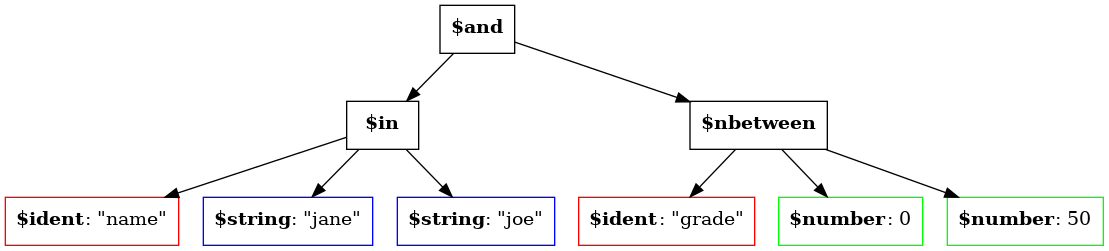
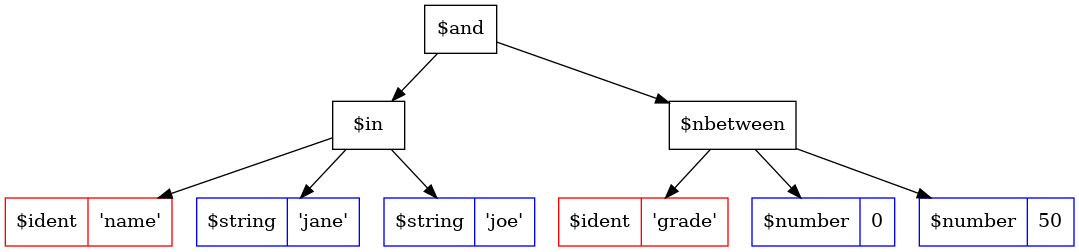
update dot style

diff --git a/pkg/tsl/graphviz_walk.go b/pkg/tsl/graphviz_walk.go
@@ -22,9 +22,9 @@ import (
 )
 
 var pool = "abcdefghijklmnopqrstuvwxyzABCDEFGHIJKLMNOPQRSTUVWXYZ"
-var identStyle = "shape=box color=red"
-var numberStyle = "shape=box color=green"
-var stringStyle = "shape=box color=blue"
+var identStyle = "shape=record color=red"
+var numberStyle = "shape=record color=blue"
+var stringStyle = "shape=record color=blue"
 var opStyle = "shape=box color=black"
 
 // Generate a random string.
@@ -64,7 +64,7 @@ func GraphvizWalk(in string, n Node, nodeID string) (out string, err error) {
 	switch n.Func {
 	case IdentOp:
 		// Add leaf label and value.
-		nodeLabel := fmt.Sprintf("%s [%s label=<<b>%s</b>: \"%s\">]",
+		nodeLabel := fmt.Sprintf("%s [%s label=\"%s | '%s'\" ]",
 			nodeID,
 			identStyle,
 			n.Func,
@@ -72,7 +72,7 @@ func GraphvizWalk(in string, n Node, nodeID string) (out string, err error) {
 		out = fmt.Sprintf("%s%s", in, nodeLabel)
 	case StringOp:
 		// Add leaf label and value.
-		nodeLabel := fmt.Sprintf("%s [%s label=<<b>%s</b>: \"%s\">]",
+		nodeLabel := fmt.Sprintf("%s [%s label=\"%s | '%s'\" ]",
 			nodeID,
 			stringStyle,
 			n.Func,
@@ -80,7 +80,7 @@ func GraphvizWalk(in string, n Node, nodeID string) (out string, err error) {
 		out = fmt.Sprintf("%s%s", in, nodeLabel)
 	case NumberOp:
 		// Add leaf label and value.
-		nodeLabel := fmt.Sprintf("%s [%s label=<<b>%s</b>: %g>]",
+		nodeLabel := fmt.Sprintf("%s [%s label=\"%s | %g\" ]",
 			nodeID,
 			numberStyle,
 			n.Func,
@@ -88,7 +88,7 @@ func GraphvizWalk(in string, n Node, nodeID string) (out string, err error) {
 		out = fmt.Sprintf("%s%s", in, nodeLabel)
 	default:
 		// Add node label.
-		st := fmt.Sprintf("%s [%s label=<<b>%s</b>>]",
+		st := fmt.Sprintf("%s [%s label=\"%s\"]",
 			nodeID,
 			opStyle,
 			n.Func)
